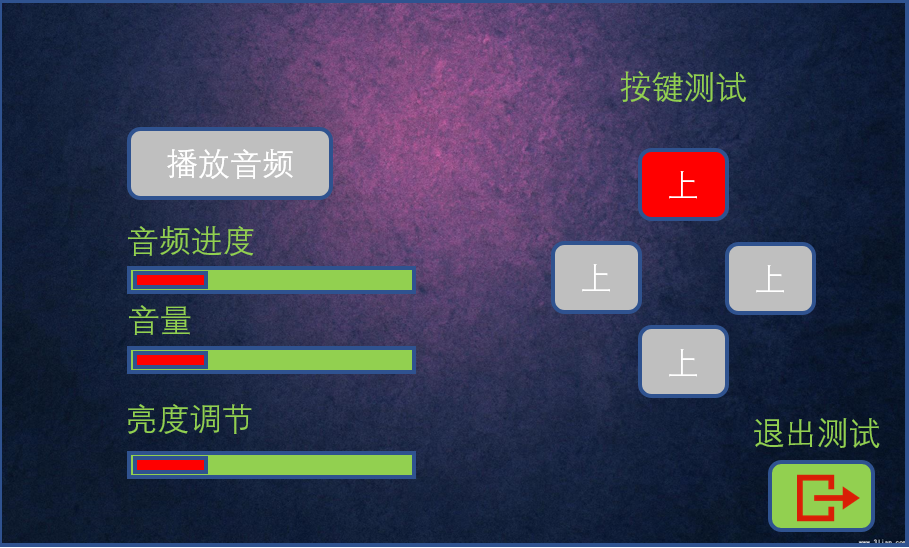
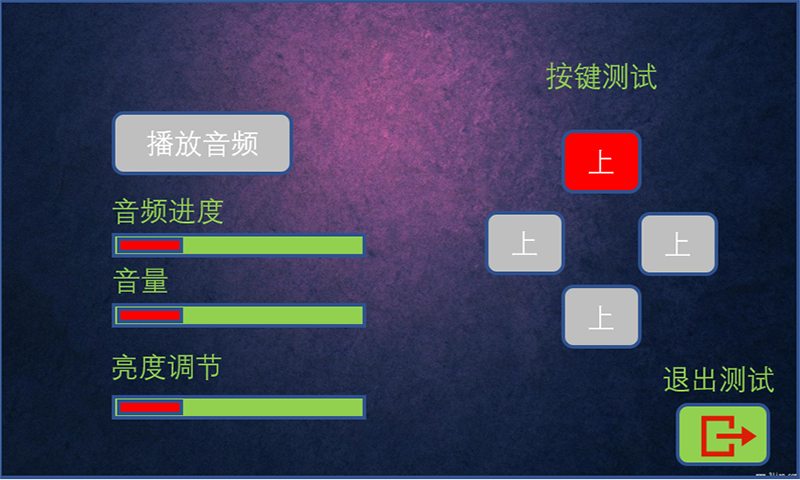
美化界面

diff --git a/hardware_test/hardware_test/mainwindow.cpp b/hardware_test/hardware_test/mainwindow.cpp
@@ -16,15 +16,15 @@ MainWindow::MainWindow(QWidget *parent) :
     ui->progressBar_music->setMaximum(100);
     /*set widget background*/
     set_background_img();
-    //set_text();
-    //set_size();
+    set_text();
+    set_size();
     Key::Key_Start_server();
     Key *key=Key::Get_Key_Global();
     connect(key,&Key::push_key,this,&MainWindow::Key_Change_slot);
 }
 void MainWindow::set_text(void)
 {
-#define sheet "color:#FFFFE0;font-size:16pt;background-color: #F0F8FF;"
+#define sheet "color:#FFFFE0;font-size:16pt;"
     ui->label->setStyleSheet(sheet);
     ui->label_2->setStyleSheet(sheet);
     ui->label_3->setStyleSheet(sheet);
@@ -37,6 +37,9 @@ void MainWindow::set_text(void)
     ui->pushButton_down->setStyleSheet(sheet_pushbutton_text);
     ui->pushButton_left->setStyleSheet(sheet_pushbutton_text);
     ui->pushButton_right->setStyleSheet(sheet_pushbutton_text);
+    ui->pushButton_quit->setStyleSheet( "#pushButton_quit {border-image: url(:/beijing/file/exit_1.png);}"\
+                                        "#pushButton_quit:pressed {border-image: url(:/beijing/file/exit_2.png);}"\
+                                        "#pushButton_quit:focus {outline:none;}");
 }
 void MainWindow::set_size(void)
 {
